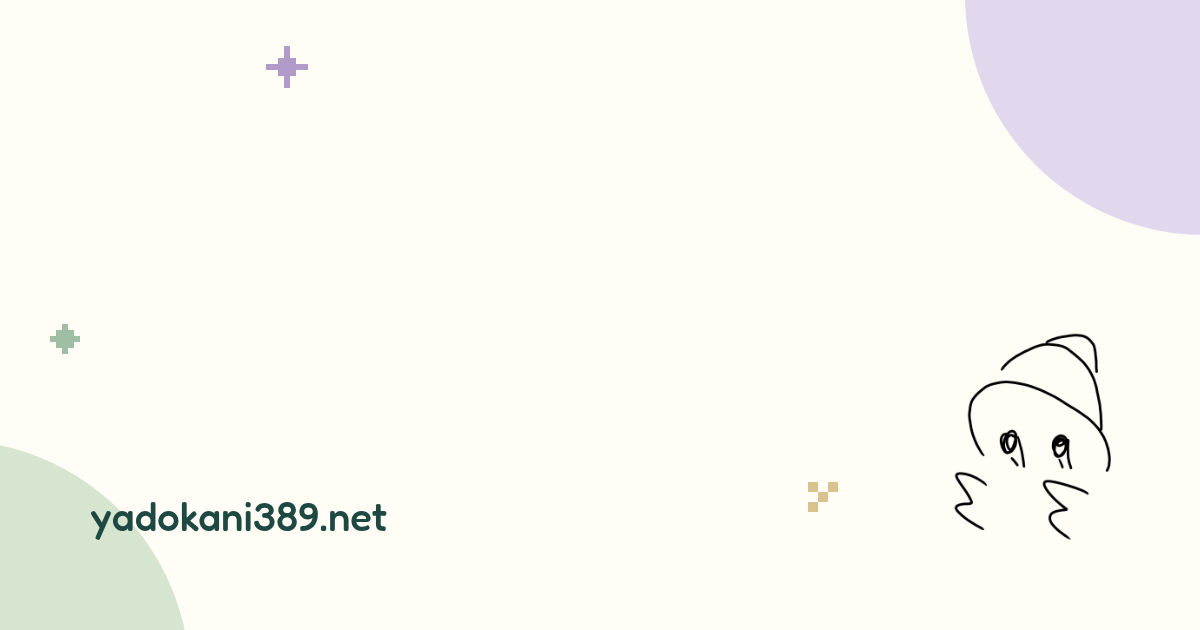
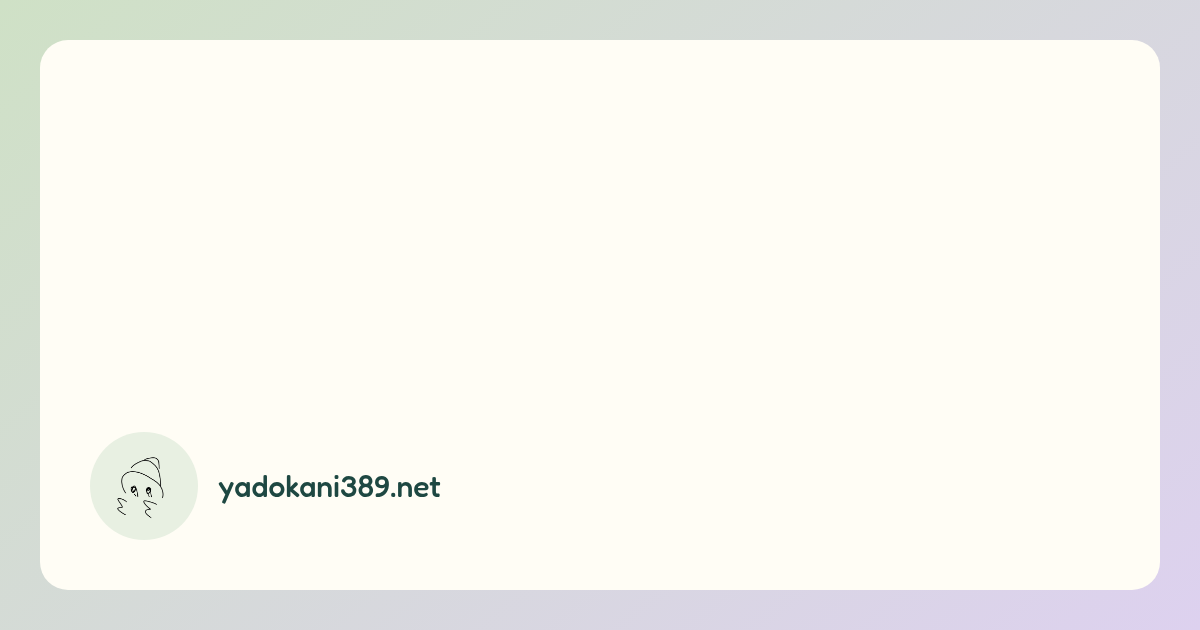
enhance: Make social preview cards title-first
Frame the default, Blog, and Works images in a shared paper card with a mascot and domain footer. Keep article descriptions in metadata instead of drawing them into the image.

Regenerate the shared artwork and bump the image URL version so social services can fetch the new design.

diff --git a/assets/og/index.html b/assets/og/index.html
@@ -20,58 +20,29 @@
         box-sizing: border-box;
       }
 
-      html {
-        background: #fffdf5;
-      }
-
       body {
-        isolation: isolate;
         position: relative;
         width: 1200px;
         height: 630px;
         margin: 0;
         overflow: hidden;
-        background: #fffdf5;
+        background: linear-gradient(140deg, #cfe1c6, #ddd1ef);
         color: #1e4842;
         font-family: "M PLUS Rounded 1c", sans-serif;
       }
 
-      body::before,
-      body::after {
-        content: "";
+      .card {
         position: absolute;
-        width: 480px;
-        height: 480px;
-        border-radius: 50%;
-        z-index: -1;
-      }
-
-      body::before {
-        right: -245px;
-        top: -245px;
-        background: #e2d8ee;
-      }
-
-      body::after {
-        left: -290px;
-        bottom: -290px;
-        background: #d6e5d0;
-      }
-
-      .effects {
-        position: absolute;
-        inset: 0;
-        width: 1200px;
-        height: 630px;
-        z-index: -1;
+        inset: 40px;
+        border-radius: 28px;
+        background: #fffdf5;
       }
 
       main {
         position: absolute;
-        top: 168px;
-        left: 60px;
-        right: 60px;
-        text-align: center;
+        top: 72px;
+        left: 90px;
+        right: 90px;
       }
 
       h1 {
@@ -83,78 +54,62 @@
       }
 
       .description {
-        margin: 34px 0 0;
-        font-size: 36px;
-        line-height: 1.5;
+        margin: 20px 0 0;
+        font-size: 34px;
+        line-height: 1.4;
         letter-spacing: 0.08em;
-      }
-
-      .domain {
-        position: absolute;
-        left: 90px;
-        bottom: 94px;
-        margin: 0;
-        font:
-          500 25px/1 Fredoka,
-          sans-serif;
         color: #647a70;
       }
 
-      .mascot {
+      .lockup {
         position: absolute;
-        right: 16px;
-        bottom: 60px;
-        width: 278px;
-        height: 278px;
+        left: 90px;
+        bottom: 90px;
+        display: flex;
+        gap: 20px;
+        align-items: center;
+      }
+
+      .disc {
+        display: flex;
+        width: 108px;
+        height: 108px;
+        border-radius: 50%;
+        background: #e8f0e2;
+        align-items: center;
+        justify-content: center;
+      }
+
+      .disc img {
+        width: 82px;
+        height: 82px;
         object-fit: contain;
         mix-blend-mode: multiply;
+      }
+
+      .domain {
+        margin: 0;
+        font:
+          500 30px/1 Fredoka,
+          sans-serif;
       }
 
       [data-view="article"] main {
         display: none;
       }
-
-      [data-view="article"] .domain {
-        font-size: 40px;
-        color: #1e4842;
-      }
     </style>
   </head>
   <body>
-    <svg
-      class="effects"
-      viewBox="0 0 1200 630"
-      aria-hidden="true"
-      shape-rendering="crispEdges"
-    >
-      <path
-        d="M18 0H24V12H30V18H42V24H30V30H24V42H18V30H12V24H0V18H12V12H18Z"
-        transform="translate(266 46)"
-        fill="#b09bc9"
-      />
-      <path
-        d="M12 0H18V6H24V12H30V18H24V24H18V30H12V24H6V18H0V12H6V6H12Z"
-        transform="translate(50 324)"
-        fill="#9fbea6"
-      />
-      <g fill="#d8c38e">
-        <rect x="808" y="482" width="10" height="10" />
-        <rect x="828" y="482" width="10" height="10" />
-        <rect x="818" y="492" width="10" height="10" />
-        <rect x="808" y="502" width="10" height="10" />
-      </g>
-    </svg>
+    <div class="card"></div>
     <main>
       <h1>yadokani389</h1>
       <p class="description">制作物と日々の記録</p>
     </main>
-    <p class="domain">yadokani389.net</p>
-    <img
-      class="mascot"
-      src="../../public/favicon.png"
-      alt=""
-      width="278"
-      height="278"
-    />
+    <div class="lockup">
+      <span class="disc">
+        <img src="../../public/favicon.png" alt="" width="82" height="82" />
+      </span>
+      <p class="domain">yadokani389.net</p>
+    </div>
   </body>
 </html>

diff --git a/src/pages/open-graph/[...route].ts b/src/pages/open-graph/[...route].ts
@@ -1,10 +1,5 @@
 import { OGImageRoute } from "astro-og-canvas";
-import {
-  bgGradient,
-  descriptionColor,
-  ogFonts,
-  titleColor,
-} from "../../lib/og/constants";
+import { bgGradient, ogFonts, titleColor } from "../../lib/og/constants";
 import { buildOgPages } from "../../lib/og/pages";
 import { formatOgText } from "../../lib/og/text";
 import { getTitleFontSize } from "../../lib/og/title";
@@ -13,43 +8,27 @@ const pages = await buildOgPages();
 
 export const { getStaticPaths, GET } = await OGImageRoute({
   pages,
-  getImageOptions: (_path, page) => {
-    const titleSize = getTitleFontSize(page.title);
-
-    return {
-      title: formatOgText(page.title),
-      description: formatOgText(page.description),
-      fonts: ogFonts,
-      font: {
-        title: {
-          color: titleColor,
-          size: titleSize,
-          weight: "Bold",
-          lineHeight: 1.12,
-          families: [
-            "Fredoka Light",
-            "Rounded Mplus 1c Bold",
-            "Rounded Mplus 1c Medium",
-          ],
-        },
-        description: {
-          color: descriptionColor,
-          size: 32,
-          weight: "Medium",
-          lineHeight: 1.3,
-          families: [
-            "Rounded Mplus 1c Medium",
-            "Rounded Mplus 1c Bold",
-            "Fredoka Light",
-          ],
-        },
+  getImageOptions: (_path, page) => ({
+    title: formatOgText(page.title),
+    fonts: ogFonts,
+    font: {
+      title: {
+        color: titleColor,
+        size: getTitleFontSize(page.title),
+        weight: "Bold",
+        lineHeight: 1.12,
+        families: [
+          "Fredoka Light",
+          "Rounded Mplus 1c Bold",
+          "Rounded Mplus 1c Medium",
+        ],
       },
-      bgGradient,
-      bgImage: {
-        path: "assets/og/article-base.png",
-        fit: "cover",
-      },
-      padding: 90,
-    };
-  },
+    },
+    bgGradient,
+    bgImage: {
+      path: "assets/og/article-base.png",
+      fit: "cover",
+    },
+    padding: 90,
+  }),
 });

diff --git a/src/lib/og/pages.ts b/src/lib/og/pages.ts
@@ -6,23 +6,11 @@ export const buildOgPages = async (): Promise<Record<string, OGPage>> => {
   const works = await getCollection("works");
 
   const blogPages: Record<string, OGPage> = Object.fromEntries(
-    blogPosts.map((post) => [
-      `blog/${post.id}`,
-      {
-        title: post.data.title,
-        description: post.data.description,
-      },
-    ]),
+    blogPosts.map((post) => [`blog/${post.id}`, { title: post.data.title }]),
   );
 
   const workPages: Record<string, OGPage> = Object.fromEntries(
-    works.map((work) => [
-      `works/${work.id}`,
-      {
-        title: work.data.title,
-        description: work.data.description,
-      },
-    ]),
+    works.map((work) => [`works/${work.id}`, { title: work.data.title }]),
   );
 
   return {

diff --git a/src/lib/og/constants.ts b/src/lib/og/constants.ts
@@ -13,4 +13,3 @@ export const bgGradient: [number, number, number][] = [
 ];
 
 export const titleColor: [number, number, number] = [30, 72, 66];
-export const descriptionColor: [number, number, number] = [100, 122, 112];

diff --git a/src/seo/pageMeta.ts b/src/seo/pageMeta.ts
@@ -5,7 +5,7 @@ type PageMeta = {
   description: string;
 };
 
-export const OG_IMAGE_VERSION = "v13";
+export const OG_IMAGE_VERSION = "v14";
 
 export const PAGE_META = {
   home: {

diff --git a/src/lib/og/types.ts b/src/lib/og/types.ts
@@ -1,4 +1,3 @@
 export type OGPage = {
   title: string;
-  description: string;
 };
